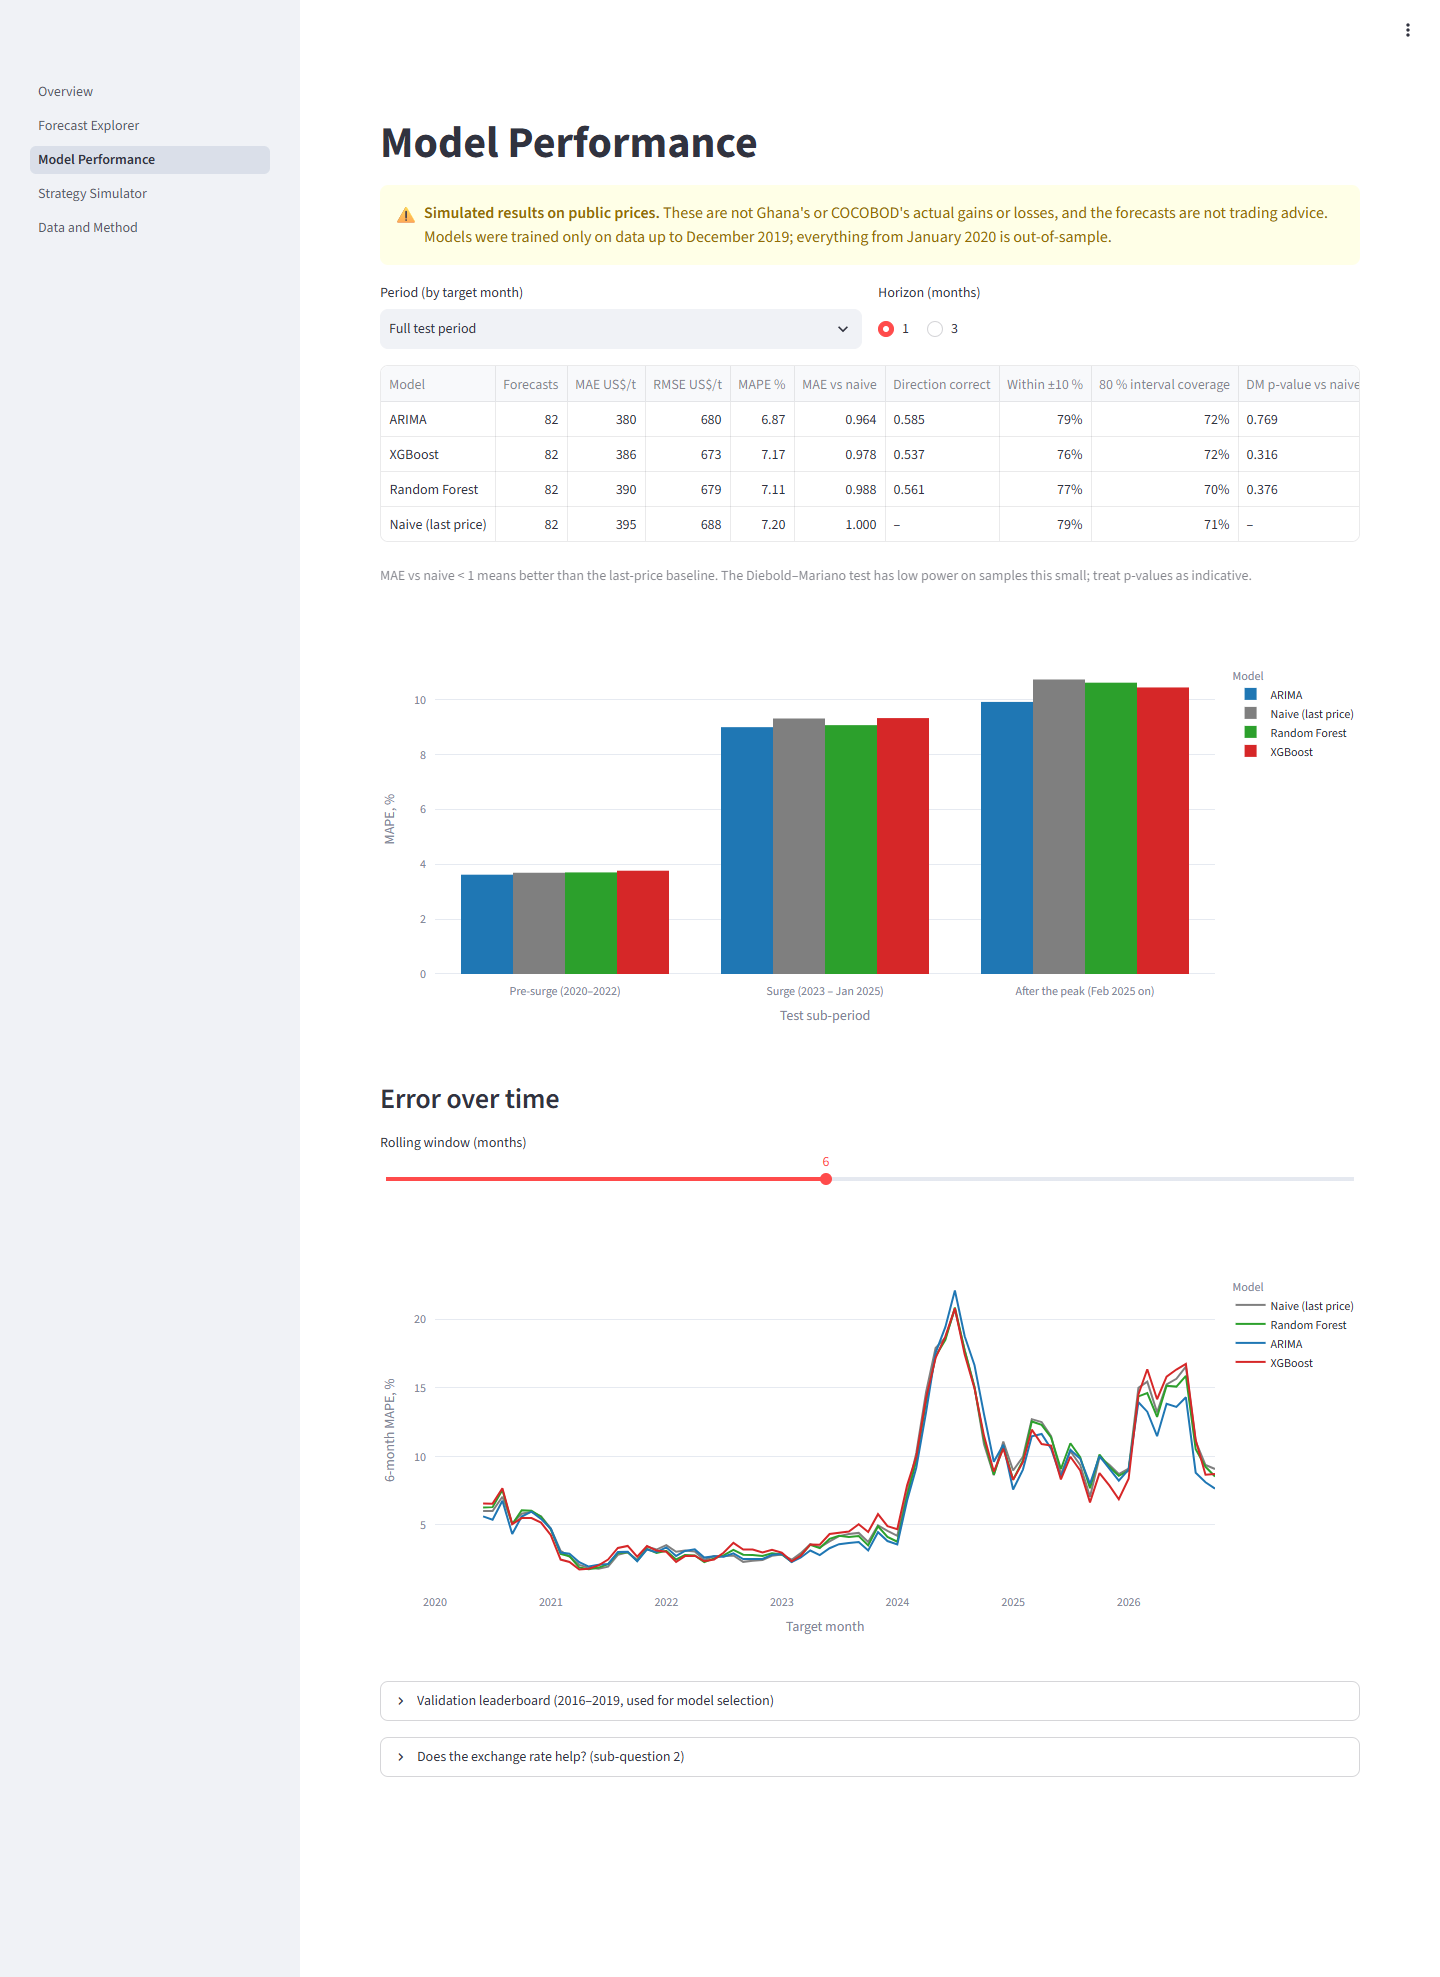
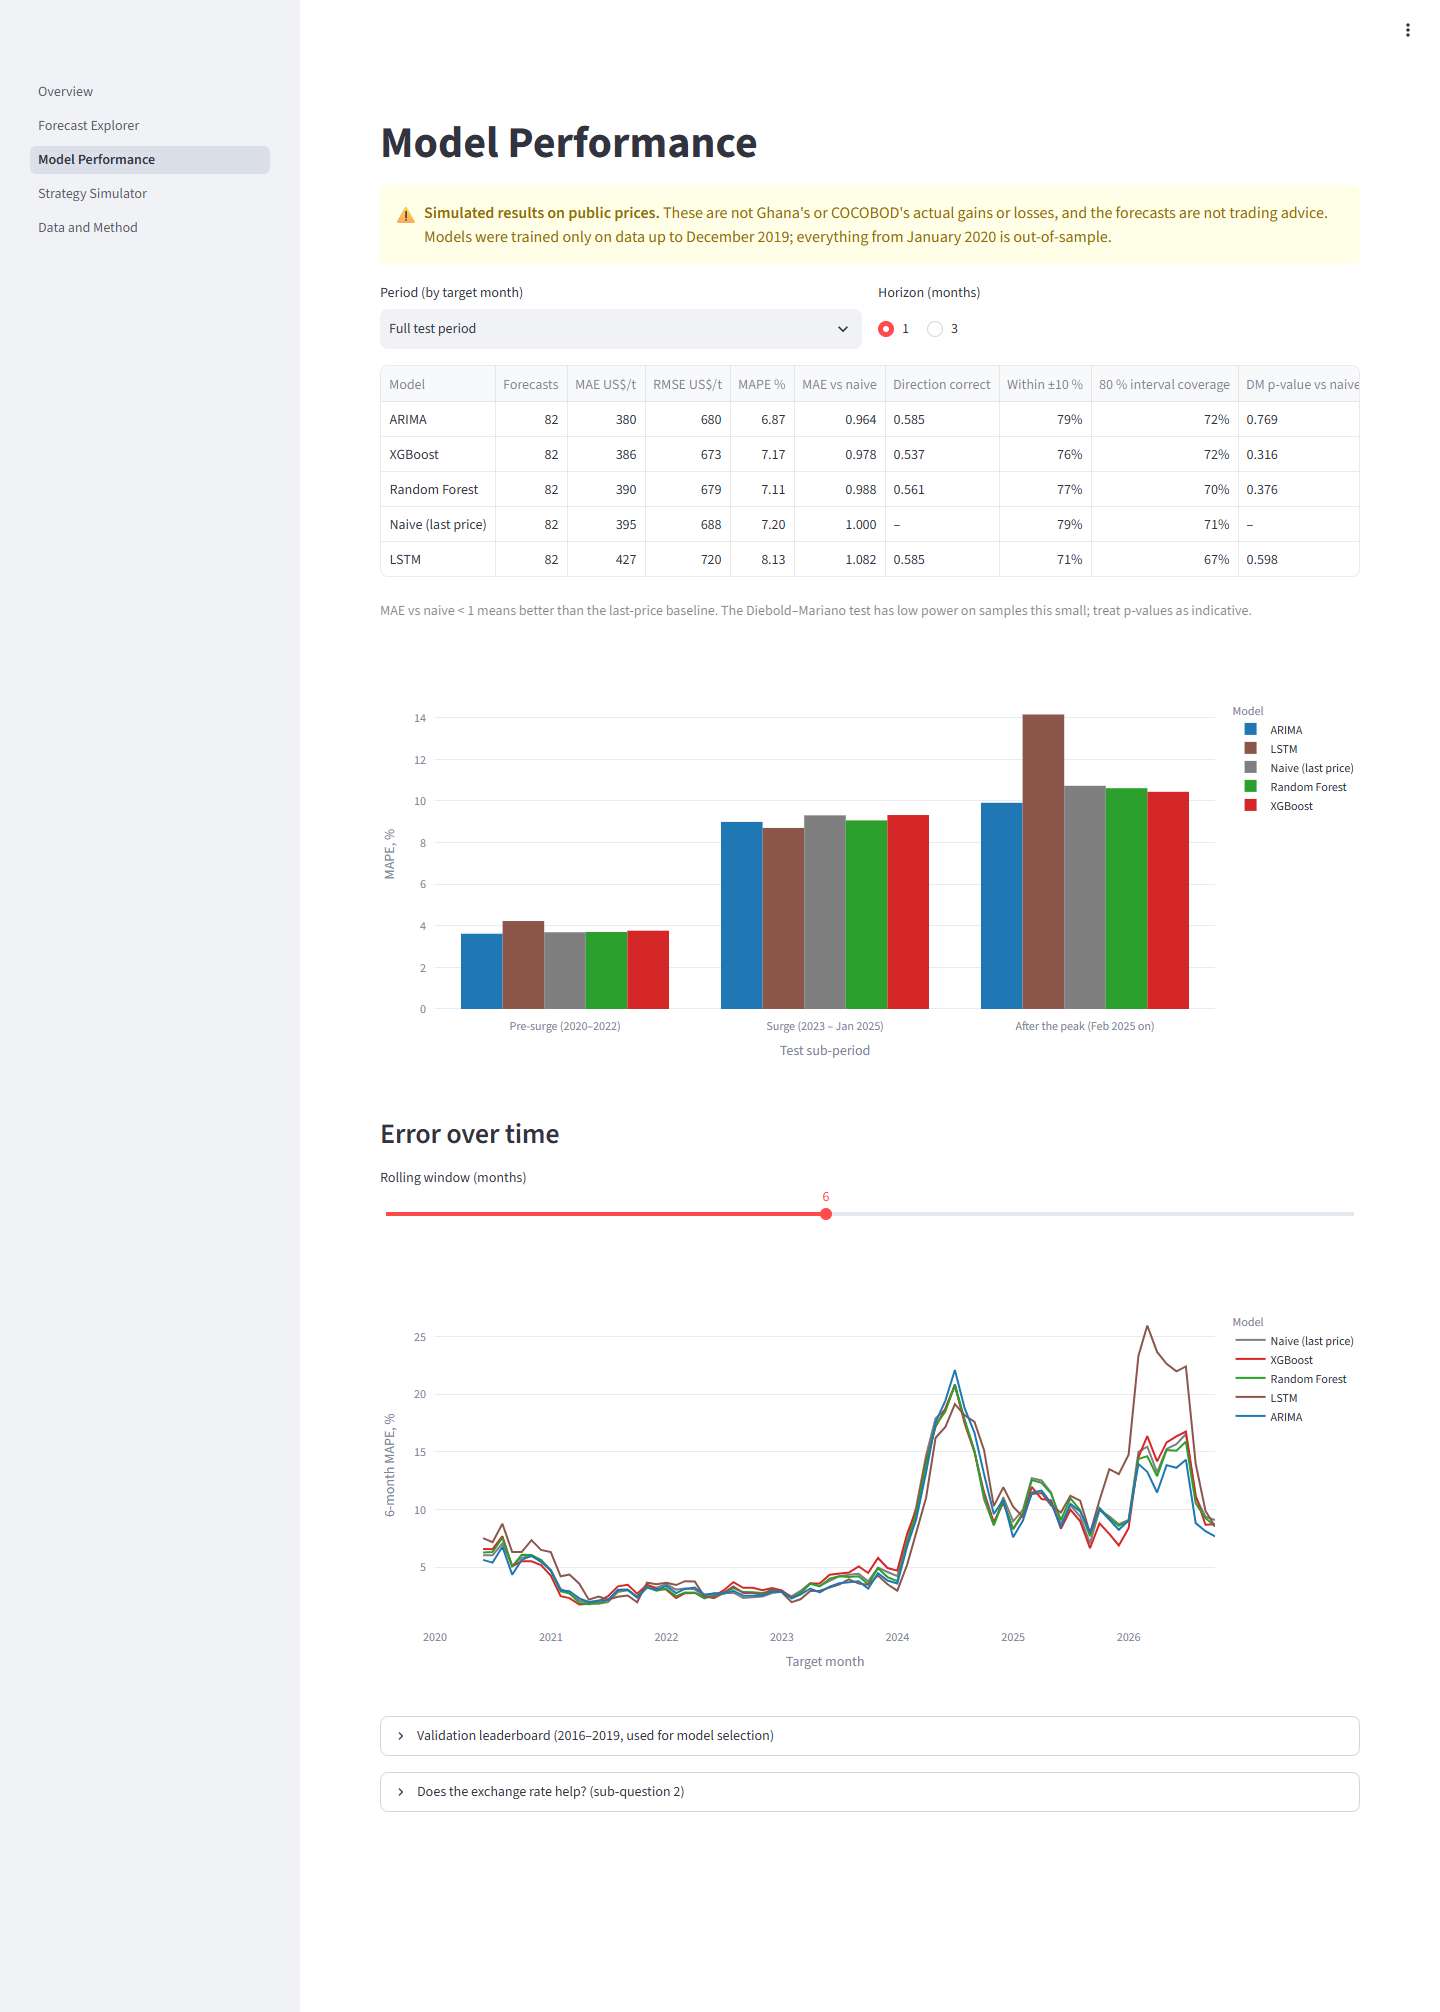
feat(dashboard): show the LSTM on every page; refresh screenshots

diff --git a/src/cocoasense/dashboard/pages/1_Forecast_Explorer.py b/src/cocoasense/dashboard/pages/1_Forecast_Explorer.py
@@ -41,7 +41,7 @@ fig = go.Figure()
 fig.add_trace(
     go.Scatter(x=known.index, y=known.values, name="Known price history", line={"color": "#3b2a1a"})
 )
-colors = {"naive": "#7f7f7f", "arima": "#1f77b4", "random_forest": "#2ca02c", "xgboost": "#d62728"}
+colors = {m: data.MODEL_COLOURS.get(data.label(m)) for m in data.MODEL_LABELS}
 for model, g in at_t.groupby("model"):
     g = g.sort_values("horizon")
     fig.add_trace(
@@ -102,4 +102,7 @@ if "Error %" in shown:
 st.dataframe(shown.style.format(fmt), hide_index=True, use_container_width=True)
 if not reveal:
     st.caption("Actual prices after the decision month are hidden until you reveal them.")
-st.caption("Source: artifacts/forecasts/test_predictions.parquet (models frozen at Dec 2019).")
+st.caption(
+    "Source: artifacts/forecasts/test_predictions.parquet and lstm_test_predictions.parquet "
+    "(models frozen at Dec 2019)."
+)
